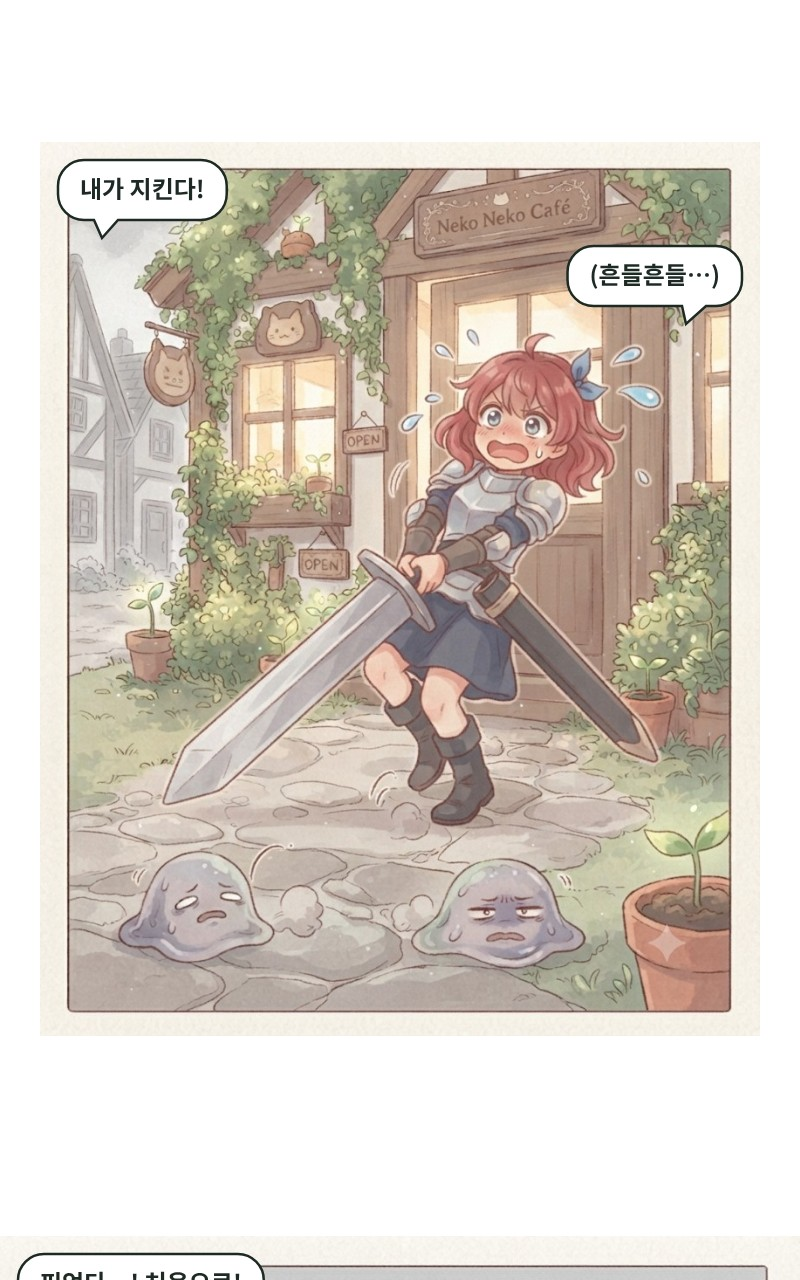
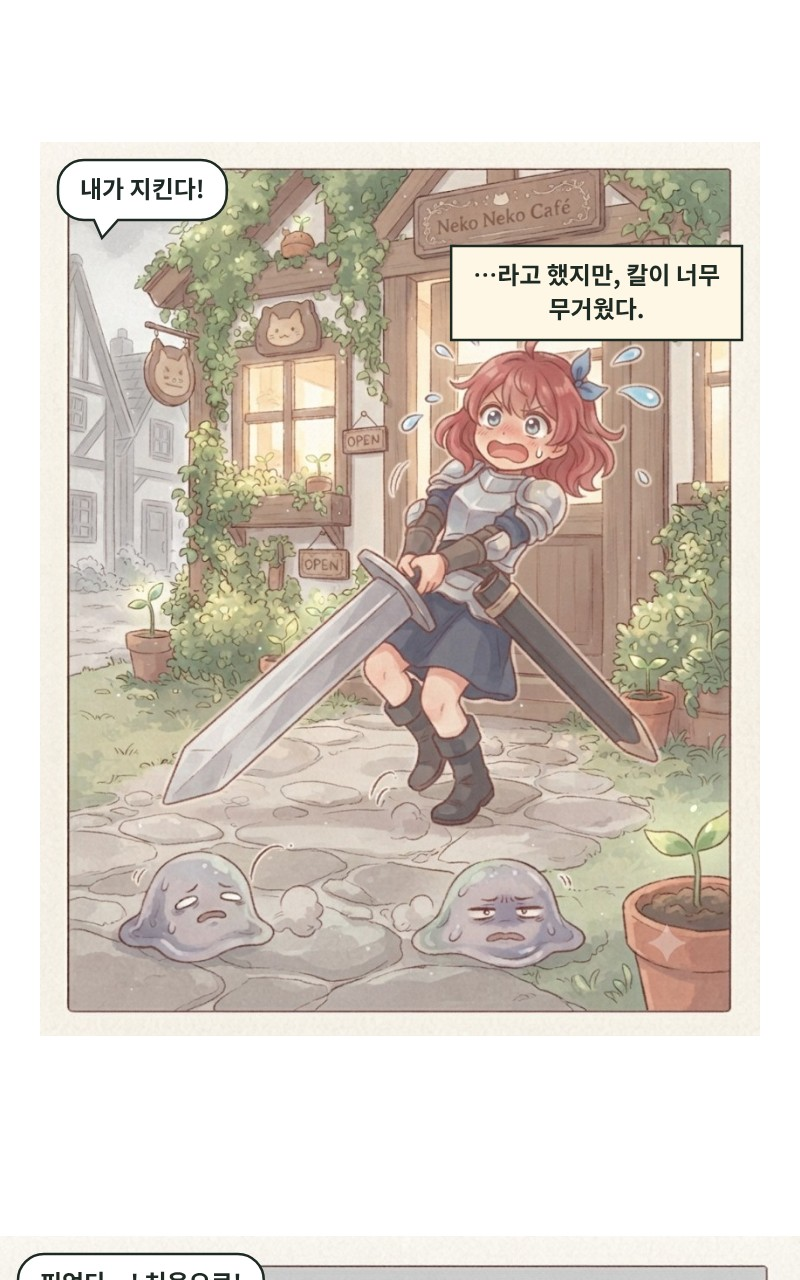
딸깍툰 1화 연계 보강: 실수 원인·루비 실패·카페만 봄 복귀·비밀과 절벽 연결
Claude-Session: https://claude.ai/code/session_01D8ERGz5r4FPkuXoKDYhqRw

Changed region(s): [[0.5625, 0.1875, 0.9375, 0.2812]]

diff --git a/web/ddalkkaktoon/index.html b/web/ddalkkaktoon/index.html
@@ -192,14 +192,14 @@ document.getElementById("flearn").innerHTML=F.learned.slice().reverse().slice(0,
 ["비밀 · 정보 격차","새봄의 새싹 핀만 초록빛으로 빛난다","내 새싹만… 빛나?"],
 ["동료 · 케미","하늘에서 기사가 거꾸로 떨어진다","비켜어어어!"],
 ["동료 · 케미","투구에 눈이 가려진 채 경례하는 루비 — 웃음 포인트","저기… 투구에 눈이 가려졌어요…"],
-["실수 → 대가","새봄의 빛에 시든 슬라임들이 깨어난다","꾸르륵…"],
+["실수 → 대가","새봄의 빛을 따라 시든 슬라임들이 깨어난다","내 빛을… 따라온 거야?"],
 ["실수 → 대가","슬라임이 고양이 카페 앞까지 몰려온다","꺄악, 우리 가게!"],
-["동료 · 케미","루비가 큰 칼로 막아서지만 비틀비틀","내가 지킨다!"],
+["동료 · 케미","루비가 막아서지만 칼이 무거워 비틀비틀 — 웃음 + 새봄이 나설 이유","내가 지킨다!"],
 ["첫 작은 승리","새봄의 마법에 슬라임 머리에 꽃이 핀다 (꽉 찬 폭 컷)","피었다…! 처음으로!"],
-["첫 작은 승리","카페에서 다 같이 라떼 — 따뜻한 마무리","고마워요! 오늘 라떼는 무료~"],
-["절벽","지붕 위 도둑, 손에는 마지막 별 씨앗","봄이 돌아오면 곤란하거든."]];
+["첫 작은 승리","카페 한 칸만 색이 돌아옴 — 따뜻한 마무리","카페 한 칸만큼, 봄이 돌아왔다."],
+["절벽","지붕 위 도둑의 별 씨앗이 새봄의 새싹과 같은 빛 — 4컷의 비밀과 연결","봄이 돌아오면 곤란하거든."]];
 document.getElementById("conti").innerHTML=C.map((c,i)=>`<div class="ct"><a href="ep1/"><img src="../../_stage/toon/ep1/ep1_${String(i+1).padStart(2,"0")}.jpg" alt="${i+1}번 컷" loading="lazy"></a><div><span class="bt">${c[0]}</span><span class="no">${i+1}컷</span><p>${c[1]}</p><q>${c[2]}</q></div></div>`).join("");
-const R=[["첫 3컷 안에 사건","3컷에서 마을이 회색으로"],["주인공이 원하는 것","꽃을 한 번도 못 피워 본 새싹 소녀"],["웃음 + 찡한 순간","거꾸로 떨어진 기사 · 처음 핀 꽃"],["개연성","새봄만 빛나서 슬라임이 깨어남 → 새봄이 해결"],["다음 화 욕구","도둑 손에 마지막 씨앗"],["얼굴·옷 같음","한 채팅방에서만 그림 · 어긋난 3컷은 다시"],["말풍선 3개 이하","컷당 1~2개"],["처음과 끝 분위기","밤의 도둑으로 시작해 밤의 도둑으로 끝"]];
+const R=[["첫 3컷 안에 사건","3컷에서 마을이 회색으로"],["주인공이 원하는 것","꽃을 한 번도 못 피워 본 새싹 소녀"],["웃음 + 찡한 순간","거꾸로 떨어진 기사 · 처음 핀 꽃"],["개연성","새봄의 빛이 슬라임을 깨움(실수) → 루비 실패 → 새봄이 직접 해결"],["다음 화 욕구","도둑 손에 마지막 씨앗"],["얼굴·옷 같음","한 채팅방에서만 그림 · 어긋난 3컷은 다시"],["말풍선 3개 이하","컷당 1~2개"],["처음과 끝 분위기","밤의 도둑으로 시작해 밤의 도둑으로 끝"]];
 document.getElementById("rvl").innerHTML=R.map(r=>`<div><span>✓</span>${r[0]}<small>${r[1]}</small></div>`).join("")})();</script>
 </body>
 </html>
